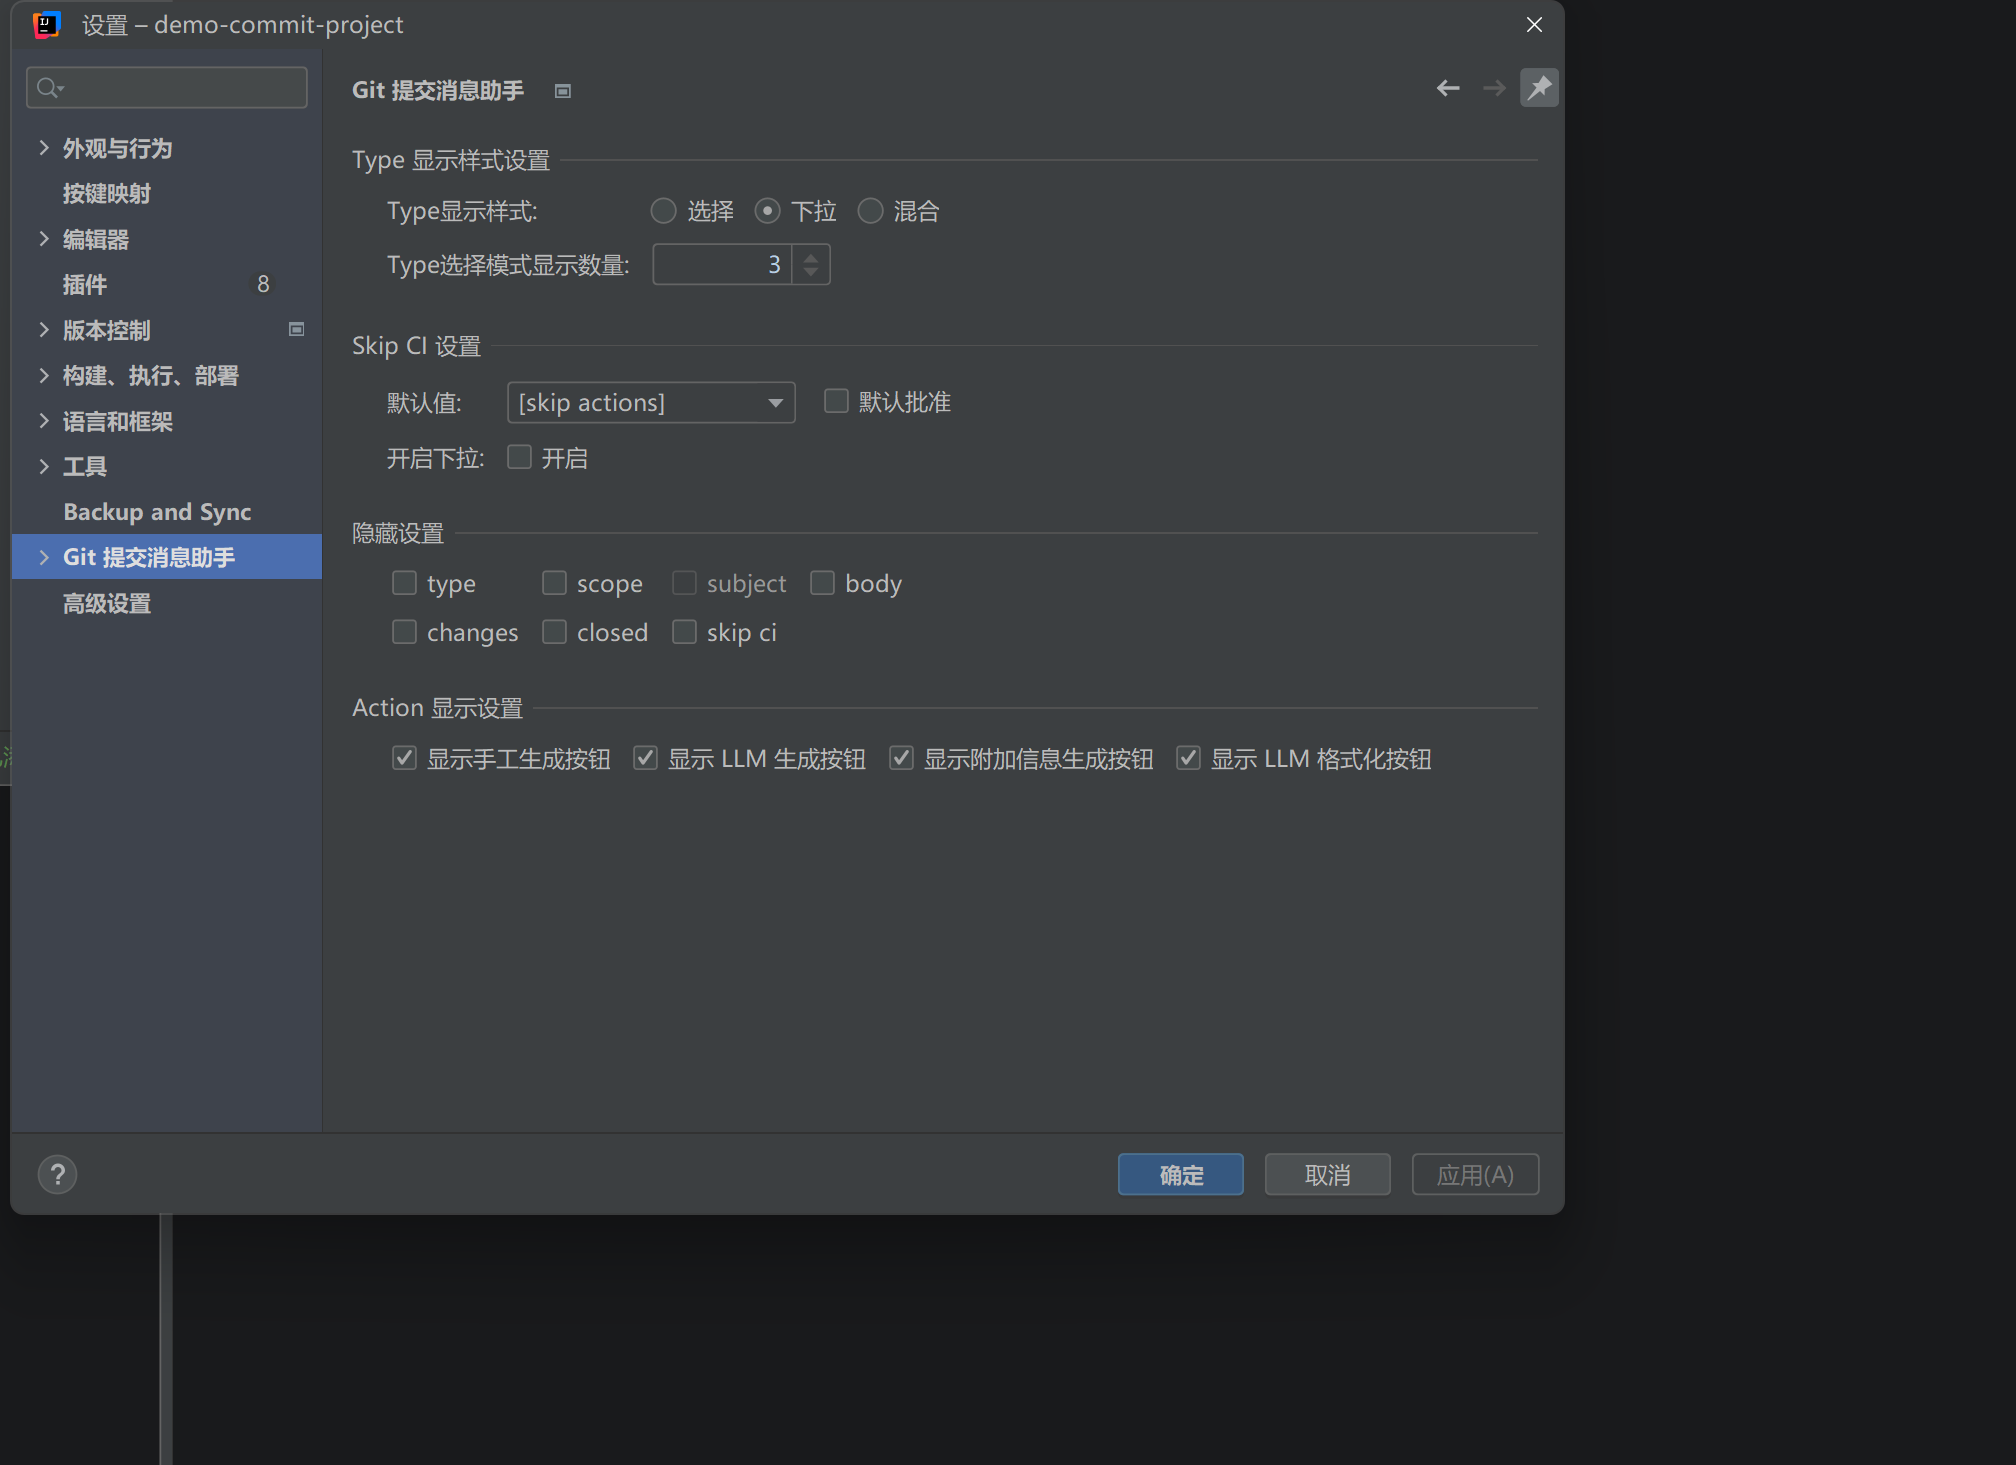
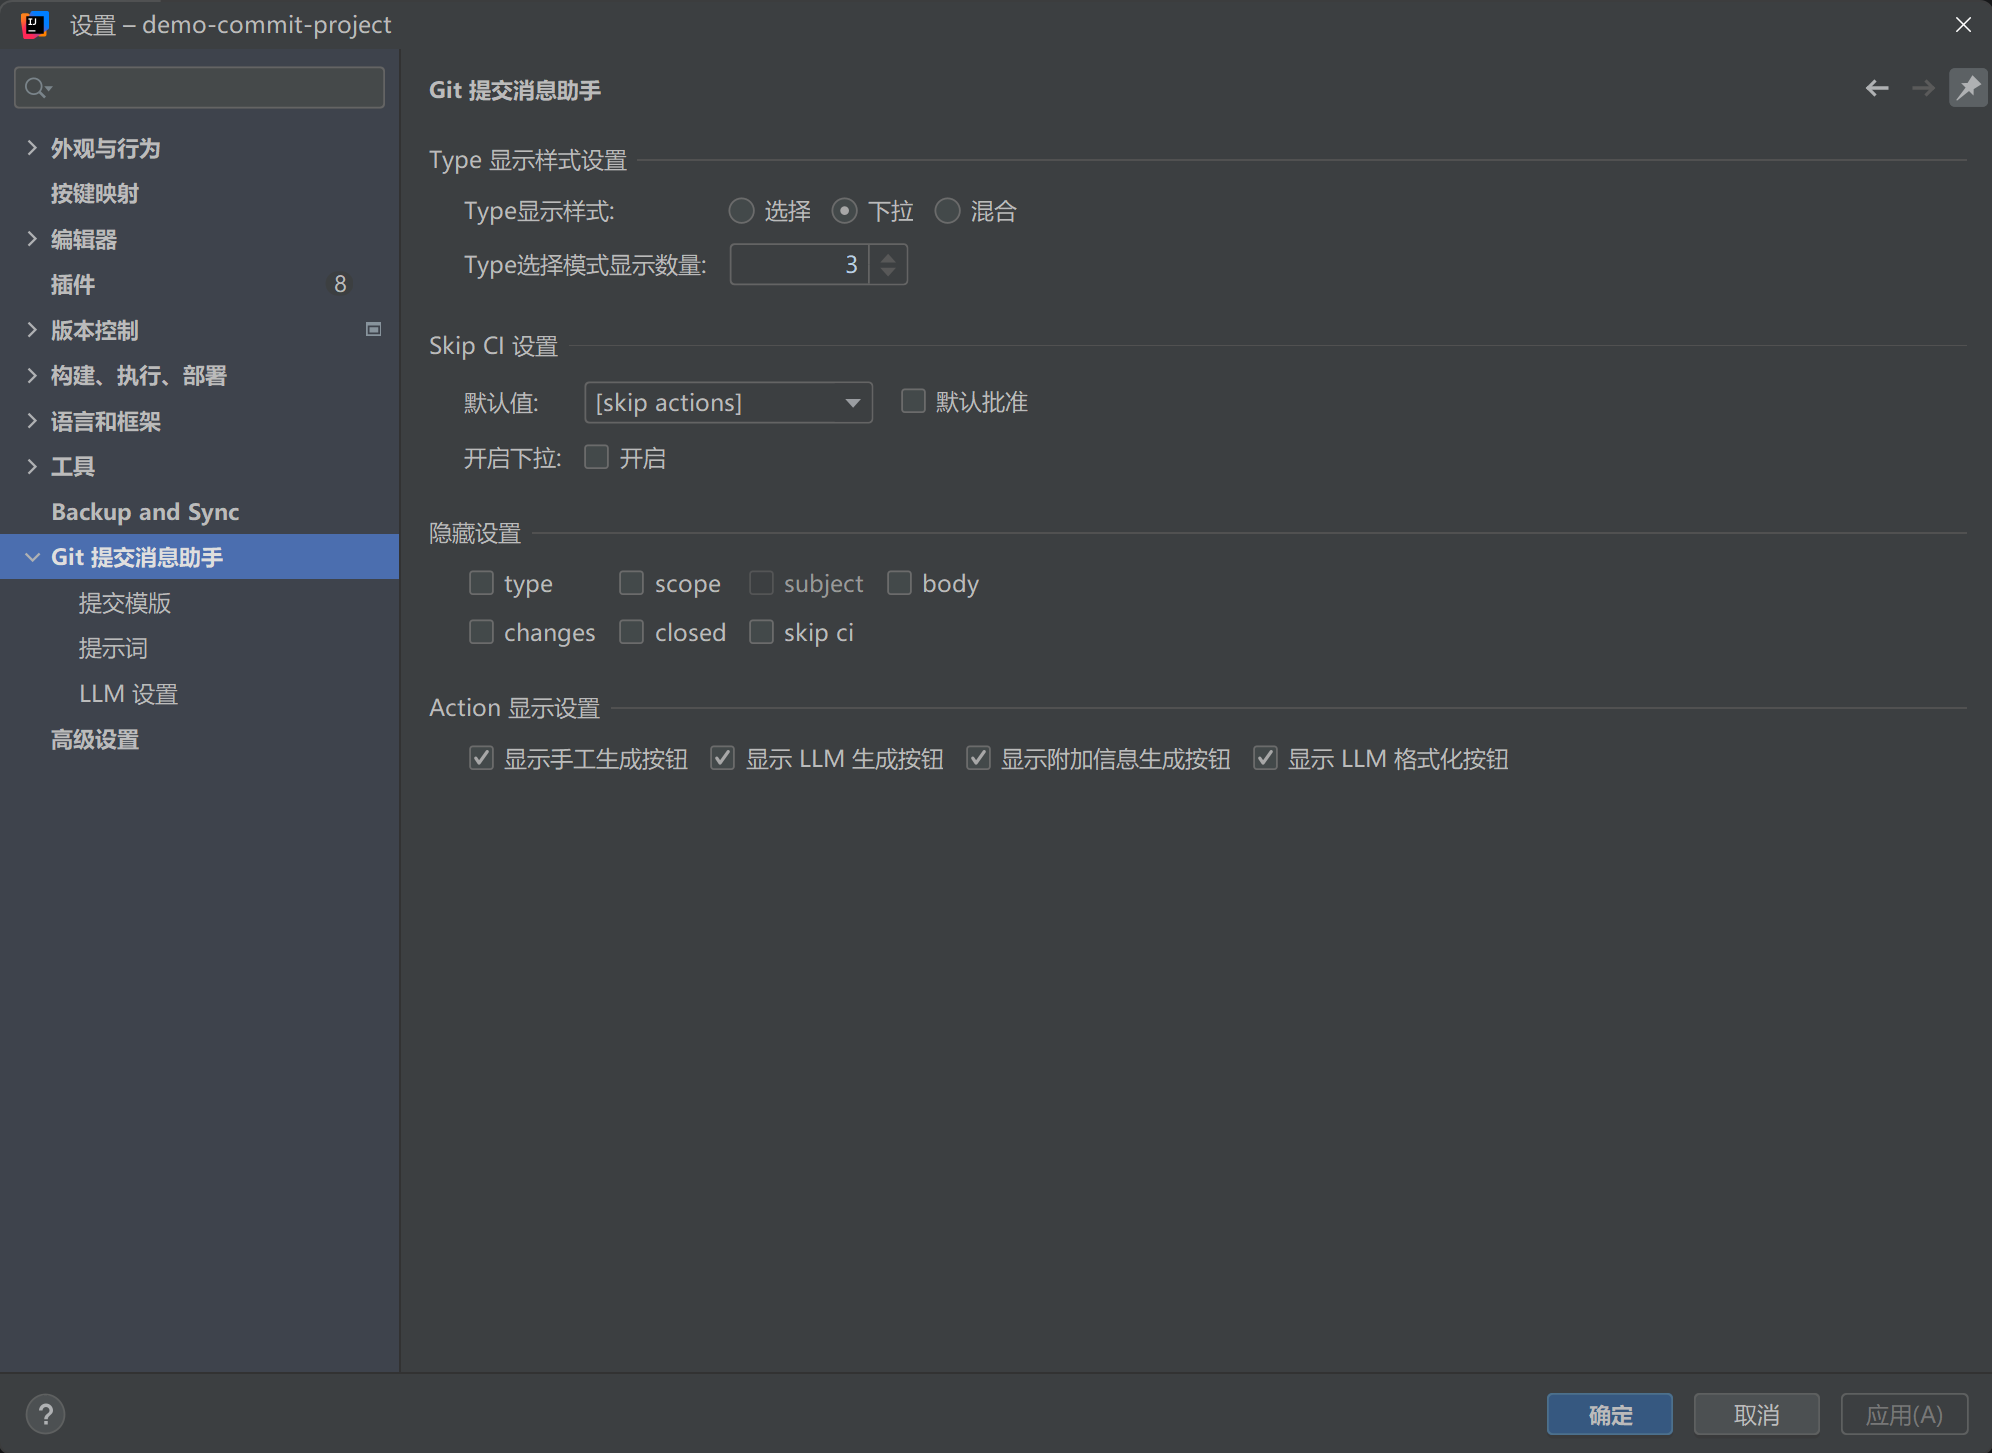
docs: 使用引导页增加左侧悬浮目录，精简首页引导区块

diff --git a/index.html b/index.html
@@ -15,7 +15,7 @@
   <link rel="canonical" href="https://commit.wangfulin.com/">
   <link rel="icon" href="assets/brand/pluginIcon.svg" type="image/svg+xml">
   <link rel="apple-touch-icon" href="assets/brand/icon.png">
-  <link rel="stylesheet" href="styles.css">
+  <link rel="stylesheet" href="styles.css?v=20261007">
 </head>
 <body>
   <a class="skip-link" href="#main">跳到主要内容</a>
@@ -258,34 +258,12 @@
     <section class="section section--guide" aria-labelledby="guide-title">
       <div class="section__heading">
         <p class="eyebrow">Guide</p>
-        <h2 id="guide-title">快速使用引导</h2>
+        <h2 id="guide-title">快速上手</h2>
       </div>
 
-      <div class="guide-list">
-        <article class="guide-item">
-          <span class="guide-item__index">01</span>
-          <div>
-            <h3>安装插件</h3>
-            <p>在 IDE 中打开 <code>File</code> → <code>Settings</code> → <code>Plugins</code> → <code>Marketplace</code>，搜索并安装 <code>Git Commit Message Helper</code>。</p>
-          </div>
-        </article>
-        <article class="guide-item">
-          <span class="guide-item__index">02</span>
-          <div>
-            <h3>打开设置页</h3>
-            <p>进入 <code>File</code> → <code>Settings</code> → Git 提交消息助手，配置提交模板、提示词、类型和 LLM。</p>
-          </div>
-        </article>
-        <article class="guide-item">
-          <span class="guide-item__index">03</span>
-          <div>
-            <h3>在提交面板中使用</h3>
-            <p>选择变更后点击 Generate、Generate with Context、Format 或 Create，确认结果后提交。</p>
-          </div>
-        </article>
-      </div>
+      <p class="guide-brief">从 Marketplace 安装后，提交面板里就可以直接使用生成、附加信息、格式化和手动创建四个动作；模板、提示词与 LLM 的详细配置都在使用引导里。</p>
 
-      <a class="button button--dark" href="usage.html">打开完整使用引导</a>
+      <a class="button button--dark" href="usage.html">查看完整使用引导</a>
     </section>
 
     <section class="section" id="llm" aria-labelledby="llm-title">
@@ -344,7 +322,7 @@
   <footer class="site-footer">
     <span>Apache License 2.0</span>
     <span>Git Commit Message Helper</span>
-    <span>© <span data-year></span> FuLinLin</span>
+    <span>© <span data-year></span> WangFuLin</span>
   </footer>
 
   <dialog class="preview-dialog" data-preview-dialog aria-label="截图预览">

diff --git a/usage.html b/usage.html
@@ -10,7 +10,7 @@
   <link rel="canonical" href="https://commit.wangfulin.com/usage.html">
   <link rel="icon" href="assets/brand/pluginIcon.svg" type="image/svg+xml">
   <link rel="apple-touch-icon" href="assets/brand/icon.png">
-  <link rel="stylesheet" href="styles.css">
+  <link rel="stylesheet" href="styles.css?v=20261007">
 </head>
 <body>
   <a class="skip-link" href="#main">跳到主要内容</a>
@@ -36,21 +36,24 @@
   </header>
 
   <main id="main">
-    <section class="guide-hero" aria-labelledby="guide-page-title">
+    <section class="guide-hero guide-hero--single" aria-labelledby="guide-page-title">
       <div class="guide-hero__copy">
         <p class="eyebrow">Usage guide</p>
         <h1 id="guide-page-title">安装、配置与日常使用</h1>
-        <p>这份引导覆盖插件安装、提交面板动作、模板配置、提交类型维护、LLM Provider 配置和 Smart Echo 使用方式。</p>
+        <p>这份引导覆盖插件安装、提交面板动作、模板配置、提交类型维护、LLM Provider 配置和 Smart Echo 使用方式。左侧目录可以在阅读时快速跳转。</p>
       </div>
-      <nav class="guide-toc" aria-label="使用引导目录">
+    </section>
+
+    <div class="guide-layout">
+      <aside class="guide-sidebar" aria-label="使用引导侧边目录">
         <a href="#install">安装</a>
         <a href="#workflow">提交工作流</a>
         <a href="#settings">配置入口</a>
         <a href="#llm-setup">LLM 设置</a>
         <a href="#screenshots">截图说明</a>
-      </nav>
-    </section>
+      </aside>
 
+      <div class="guide-main">
     <section class="guide-section" id="install" aria-labelledby="install-title">
       <div class="guide-section__label">01</div>
       <div class="guide-section__content">
@@ -258,12 +261,14 @@ Header: x-api-key: sk-ant-...</code></pre>
         </section>
       </div>
     </section>
+      </div>
+    </div>
   </main>
 
   <footer class="site-footer">
     <span>Apache License 2.0</span>
     <span><a href="./">返回首页</a></span>
-    <span>© <span data-year></span> FuLinLin</span>
+    <span>© <span data-year></span> WangFuLin</span>
   </footer>
 
   <dialog class="preview-dialog" data-preview-dialog aria-label="截图预览">

diff --git a/styles.css b/styles.css
@@ -1413,3 +1413,53 @@ section[id] {
     animation-iteration-count: 1 !important;
   }
 }
+
+/* Usage guide: sticky sidebar navigation */
+.guide-layout {
+  display: grid;
+  grid-template-columns: 200px minmax(0, 1fr);
+  gap: 3rem;
+  align-items: start;
+  width: min(1180px, calc(100% - 48px));
+  margin: 0 auto;
+}
+
+.guide-sidebar {
+  position: sticky;
+  top: 96px;
+  display: grid;
+  gap: 0.45rem;
+  border-left: 2px solid var(--ink);
+  padding-left: 1rem;
+  font-weight: 820;
+}
+
+.guide-sidebar a {
+  text-decoration: none;
+}
+
+.guide-sidebar a:hover,
+.guide-sidebar a:focus-visible {
+  color: var(--blue);
+  outline: none;
+}
+
+.guide-hero--single {
+  grid-template-columns: minmax(0, 1fr);
+}
+
+.guide-brief {
+  max-width: 860px;
+  font-size: 1.05rem;
+  color: rgba(32, 35, 33, 0.78);
+}
+
+@media (max-width: 980px) {
+  .guide-layout {
+    grid-template-columns: minmax(0, 1fr);
+  }
+
+  .guide-sidebar {
+    display: none;
+  }
+}
